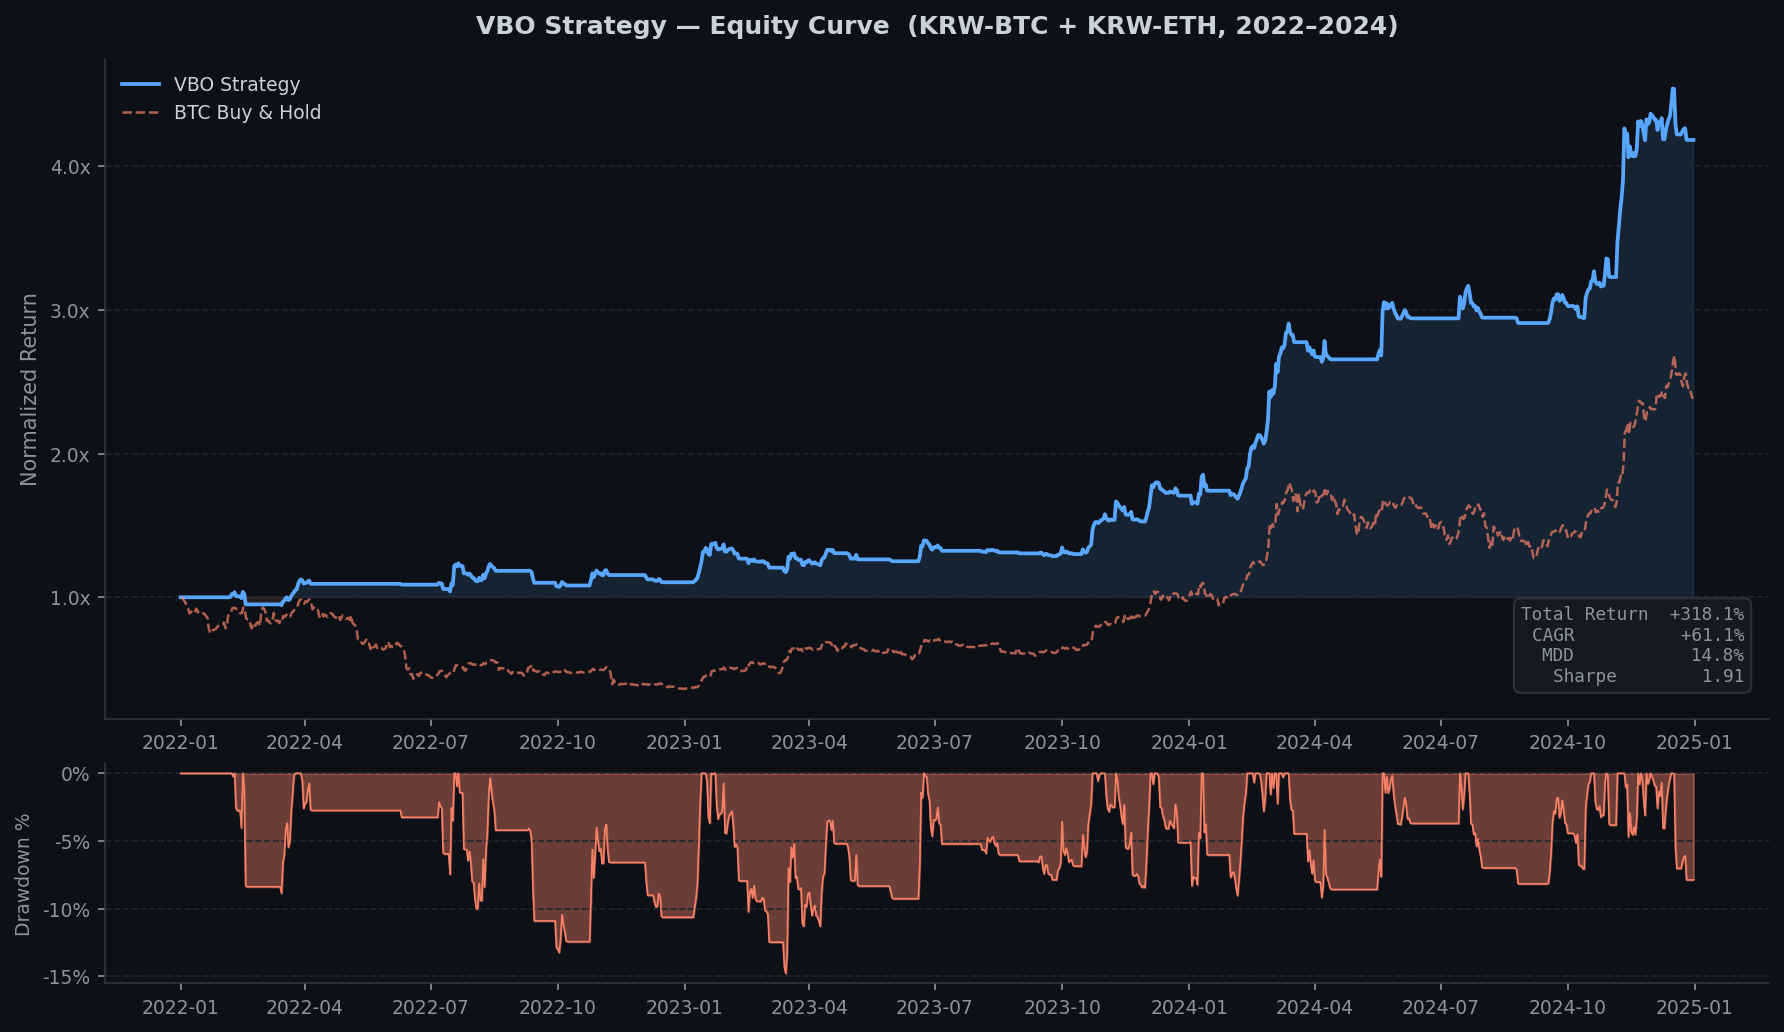
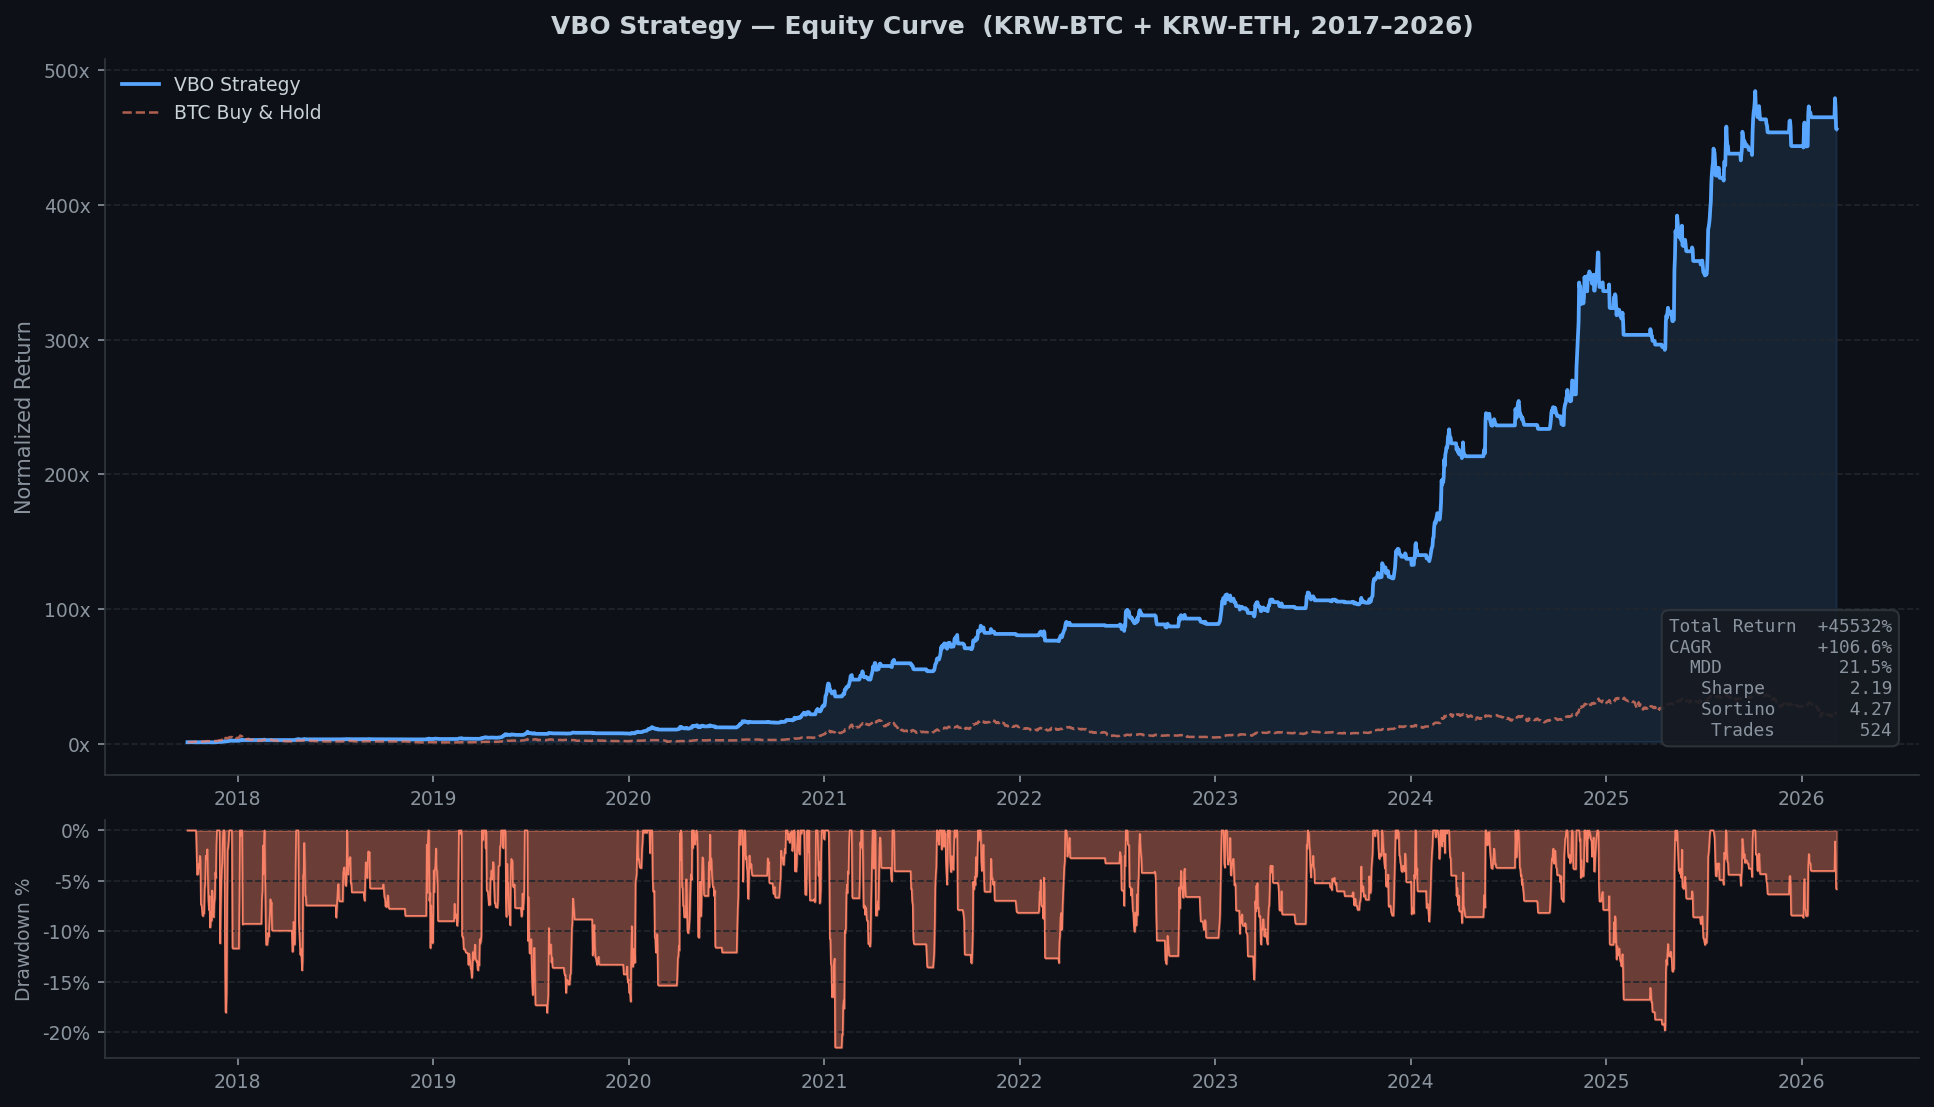
docs: add architecture diagram and backtest equity curve to README
- Add mermaid architecture diagram (CLI → Engine/Optimizer/WFA/Collector)
- Add VBO equity curve chart (KRW-BTC + KRW-ETH, 2017–2026)
- Place equity curve at top of both README.md and README_KR.md

diff --git a/README_KR.md b/README_KR.md
@@ -4,7 +4,7 @@ Upbit/Binance를 위한 퀀트 백테스팅 및 전략 연구 플랫폼.
 
 ![VBO Equity Curve](docs/images/equity_curve.png)
 
-> VBO 전략 KRW-BTC + KRW-ETH (2022–2024), 초기 자본 ₩10,000,000, 2 슬롯.
+> VBO 전략 KRW-BTC + KRW-ETH (2017–2026), 초기 자본 ₩10,000,000, 2 슬롯.
 > 파란색: 전략 자산곡선. 빨간 점선: BTC 바이앤홀드 벤치마크.
 
 - **벡터화 백테스터** — 현실적인 비용 모델(수수료 + 슬리피지)을 갖춘 이벤트 기반 시뮬레이션

diff --git a/README.md b/README.md
@@ -6,7 +6,7 @@ A quantitative backtesting and strategy research platform for Upbit/Binance.
 
 ![VBO Equity Curve](docs/images/equity_curve.png)
 
-> VBO strategy on KRW-BTC + KRW-ETH (2022–2024), initial capital ₩10,000,000, 2 slots.
+> VBO strategy on KRW-BTC + KRW-ETH (2017–2026), initial capital ₩10,000,000, 2 slots.
 > Blue: strategy equity. Red dashed: BTC buy-and-hold benchmark.
 
 - **Vectorized backtester** — event-driven simulation with realistic cost model (fees + slippage)
